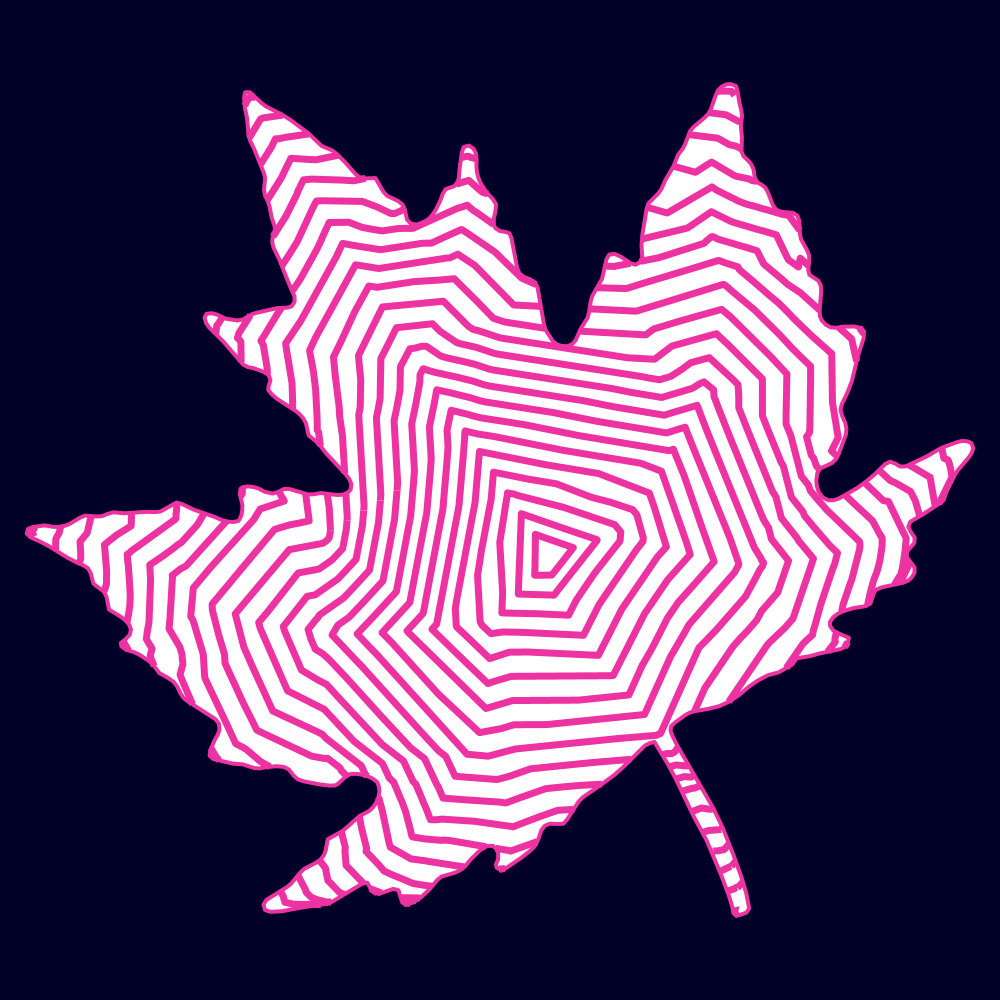
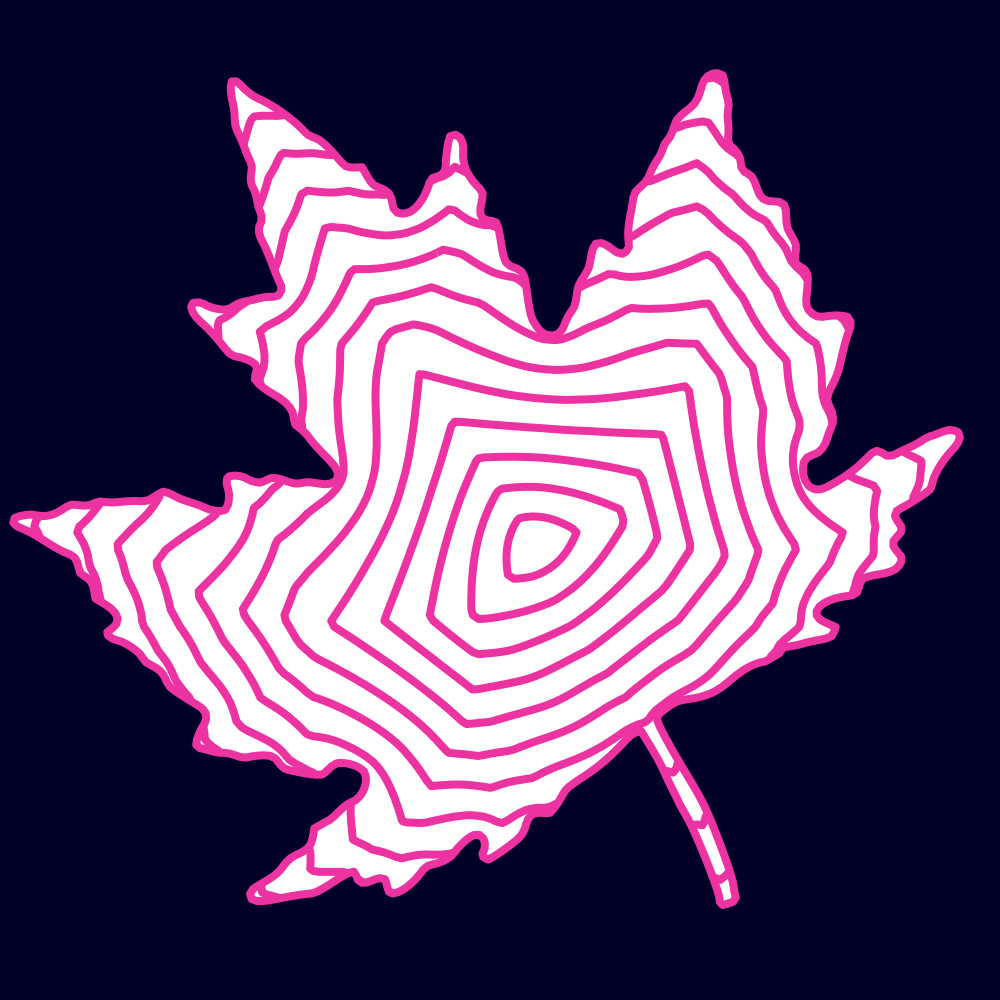
add isolinesFromFunction() (and improve distanceField())

Changed region(s): [[0.0, 0.062, 0.992, 0.93]]

diff --git a/src/main/java/micycle/pgs/PGS_Contour.java b/src/main/java/micycle/pgs/PGS_Contour.java
@@ -13,6 +13,7 @@ import java.util.List;
 import java.util.Map;
 import java.util.Objects;
 import java.util.Set;
+import java.util.function.DoubleBinaryOperator;
 import java.util.stream.Collectors;
 
 import javax.vecmath.Point3d;
@@ -37,6 +38,7 @@ import org.locationtech.jts.operation.buffer.BufferOp;
 import org.locationtech.jts.operation.buffer.BufferParameters;
 import org.locationtech.jts.operation.buffer.OffsetCurve;
 import org.locationtech.jts.operation.distance.IndexedFacetDistance;
+import org.locationtech.jts.operation.overlayng.OverlayNG;
 import org.locationtech.jts.simplify.DouglasPeuckerSimplifier;
 import org.tinfour.common.IIncrementalTin;
 import org.tinfour.common.IQuadEdge;
@@ -54,6 +56,7 @@ import org.twak.camp.Skeleton;
 import org.twak.utils.collections.Loop;
 import org.twak.utils.collections.LoopL;
 
+import com.github.micycle1.geoblitz.SegmentVoronoiIndex;
 import com.github.micycle1.geoblitz.YStripesPointInAreaLocator;
 import com.google.common.collect.Lists;
 
@@ -62,6 +65,7 @@ import micycle.medialAxis.MedialAxis.MedialDisk;
 import micycle.pgs.PGS.LinearRingIterator;
 import micycle.pgs.color.ColorUtils;
 import micycle.pgs.color.Colors;
+import micycle.pgs.commons.MarchingSquares;
 import micycle.pgs.commons.PEdge;
 import net.jafama.FastMath;
 import processing.core.PConstants;
@@ -589,42 +593,176 @@ public final class PGS_Contour {
 	}
 
 	/**
-	 * Generates vector contour lines representing a distance field derived from a
-	 * shape.
+	 * Extracts contour lines (isolines) from a user-defined 2D “height map” over a
+	 * rectangular region.
 	 * <p>
-	 * The distance field for a shape assigns each interior point a value equal to
-	 * the shortest Euclidean distance from that point to the shape boundary. This
-	 * method computes a series of contour lines (isolines), where each line
-	 * connects points with the same distance value, effectively visualizing the
-	 * "levels" of the distance field like elevation contours on a topographic map.
+	 * You provide a function {@code f(x,y)} that returns a numeric value for every
+	 * point. This method samples that function on a regular grid over
+	 * {@code bounds}, then traces contour lines that connect points with the same
+	 * value (like elevation contours on a map) using the Marching Squares
+	 * algorithm.
+	 * <p>
+	 * This is a very versatile way to turn simple math functions into computational
+	 * patterns—ripples, bands, interference fields, cellular textures, etc.—without
+	 * manually constructing geometry. The contour value range is determined
+	 * automatically from the sampled minimum/maximum values.
 	 *
-	 * @param shape   A polygonal shape for which to calculate the distance field
-	 *                contours.
-	 * @param spacing The interval between successive contour lines, i.e., the
-	 *                distance value difference between each contour.
-	 * @return A GROUP PShape. Each child of the group is a closed contour line or a
-	 *         section (partition) of a contour line, collectively forming the
-	 *         contour map.
+	 * @param bounds          Sampling bounds as {@code [xmin, ymin, xmax, ymax]}.
+	 * @param sampleSpacing   Grid spacing in coordinate units (smaller yields finer
+	 *                        detail but is slower). 5 is sufficient for very high
+	 *                        quality.
+	 * @param contourInterval The value step between successive contour lines.
+	 * @param valueFunction   Function that returns the value at {@code (x,y)}.
+	 * @return A map of isoline shapes to their corresponding contour (height)
+	 *         value.
+	 * @since 2.2
+	 */
+	public static PShape isolinesFromFunction(double[] bounds, double sampleSpacing, double contourInterval, DoubleBinaryOperator valueFunction) {
+		return isolinesFromFunction(bounds, sampleSpacing, contourInterval, valueFunction, Double.NaN, Double.NaN);
+	}
+
+	/**
+	 * Extracts contour lines (isolines) from a user-defined 2D “height map” over a
+	 * rectangular region, within a specified value range.
+	 * <p>
+	 * You provide a function {@code f(x,y)} that returns a numeric value for every
+	 * point. This method samples that function on a regular grid over
+	 * {@code bounds}, then traces contour lines that connect points with the same
+	 * value (like elevation contours on a map) using the Marching Squares
+	 * algorithm.
+	 * <p>
+	 * This is a very versatile way to turn simple math functions into computational
+	 * patterns. Only contour lines with values in {@code [isolineMin, isolineMax]}
+	 * are produced.
+	 *
+	 * @param bounds          Sampling bounds as {@code [xmin, ymin, xmax, ymax]}.
+	 * @param sampleSpacing   Grid spacing in coordinate units (smaller yields finer
+	 *                        detail but is slower). 5 is sufficient for very high
+	 *                        quality.
+	 * @param contourInterval The value step between successive contour lines.
+	 * @param valueFunction   Function that returns the value at {@code (x,y)}.
+	 * @param isolineMin      Minimum contour value (inclusive).
+	 * @param isolineMax      Maximum contour value (inclusive).
+	 * @return A map of isoline shapes to their corresponding contour (height)
+	 *         value.
+	 * @since 2.2
+	 */
+	public static PShape isolinesFromFunction(double[] bounds, double sampleSpacing, double contourInterval, DoubleBinaryOperator valueFunction,
+			double isolineMin, double isolineMax) {
+		var isolines = MarchingSquares.isolines(bounds, sampleSpacing, contourInterval, isolineMin, isolineMax, valueFunction).keySet();
+
+		var out = PGS_Conversion.flatten(isolines);
+		PGS_Conversion.setAllStrokeColor(out, micycle.pgs.color.Colors.PINK, 4, PConstants.SQUARE);
+
+		return out;
+	}
+
+	/**
+	 * Extracts the <em>zero</em> contour (the 0-level set) from a user-defined 2D
+	 * “height map” over a rectangular region.
+	 * <p>
+	 * You provide a function {@code f(x,y)} that returns a numeric value for every
+	 * point. This method samples that function on a regular grid over
+	 * {@code bounds}, then traces the isoline where {@code f(x,y) = 0} using the
+	 * Marching Squares algorithm.
+	 * <p>
+	 * The resulting contour follows the boundary between positive and negative
+	 * values of {@code f} (i.e., where the function crosses zero). This is useful
+	 * for extracting implicit curves such as circles, signed-distance fields, and
+	 * other zero-crossing patterns.
+	 *
+	 * @param bounds        Sampling bounds as {@code [xmin, ymin, xmax, ymax]}.
+	 * @param sampleSpacing Grid spacing in coordinate units (smaller yields finer
+	 *                      detail but is slower). 5 is sufficient for very high
+	 *                      quality.
+	 * @param valueFunction Function that returns the value at {@code (x,y)}.
+	 * @return A {@link PShape} containing all extracted zero-value isoline
+	 *         polylines within {@code bounds}.
+	 * @since 2.2
+	 */
+	public static PShape isolineZeroFromFunction(double[] bounds, double sampleSpacing, DoubleBinaryOperator valueFunction) {
+		var isolines = MarchingSquares.isolineZero(bounds, sampleSpacing, valueFunction).keySet();
+
+		var out = PGS_Conversion.flatten(isolines);
+		PGS_Conversion.setAllStrokeColor(out, micycle.pgs.color.Colors.PINK, 4, PConstants.SQUARE);
+
+		return out;
+	}
+
+	/**
+	 * Generates interior contour lines (isolines) that radiate from a shape
+	 * “center”.
+	 * <p>
+	 * The result resembles offset curves (inward parallels), but the underlying
+	 * metric is not a pure boundary offset. Instead, contours are derived from a
+	 * distance-like field that balances distance to the boundary with distance to
+	 * an interior pole (chosen automatically), producing characteristic
+	 * rings/levels emanating from the shape’s interior.
+	 *
+	 * @param shape   A polygonal {@link PShape} to generate contours for.
+	 * @param spacing The contour interval between successive lines.
+	 * @return A {@code GROUP} {@link PShape} whose children form the contour set
+	 *         inside {@code shape}.
 	 * @since 1.3.0
+	 * @see #distanceField(PShape, double, PVector)
 	 */
 	public static PShape distanceField(PShape shape, double spacing) {
-		Geometry g = fromPShape(shape);
-		MedialAxis m = new MedialAxis(g);
+		PVector mic = new PVector();
+		PGS_Optimisation.maximumInscribedCircle(shape, 1, mic);
+		return distanceField(shape, spacing, mic);
+	}
 
-		List<PVector> disks = new ArrayList<>();
-		double min = Double.POSITIVE_INFINITY;
-		double max = Double.NEGATIVE_INFINITY;
-		for (MedialDisk d : m.getDisks()) {
-			disks.add(new PVector((float) d.position.x, (float) d.position.y, (float) d.distance));
-			min = Math.min(d.distance, min);
-			max = Math.max(d.distance, max);
-		}
+	/**
+	 * Generates interior contour lines (isolines) that radiate from a specified
+	 * pole point within a polygon.
+	 * <p>
+	 * The result is similar in spirit to inward offset curves, but governed by a
+	 * distance-like field that blends proximity to the boundary with proximity to
+	 * the given {@code pole}. This tends to produce characteristic “rings”/levels
+	 * centred on {@code pole}, clipped to the shape interior.
+	 *
+	 * @param shape   A polygonal {@link PShape} to generate contours for.
+	 * @param spacing The contour interval between successive lines.
+	 * @param pole    The point that the contours are oriented around (need not lie
+	 *                inside {@code shape}).
+	 * @return A {@code GROUP} {@link PShape} whose children form the contour set
+	 *         inside {@code shape}.
+	 * @since 2.2
+	 */
+	public static PShape distanceField(PShape shape, double spacing, PVector pole) {
+		final Geometry g = fromPShape(shape);
+		final var svi = new SegmentVoronoiIndex((Polygon) g, Math.max(spacing / 5.0, 4));
 
-		PShape out = PGS_Conversion.flatten(PGS_Contour.isolines(disks, spacing, min, max, 1).keySet());
-		PShape i = PGS_ShapeBoolean.intersect(shape, out);
-		PGS_Conversion.disableAllFill(i); // since some shapes may be polygons
-		PGS_Conversion.setAllStrokeColor(i, micycle.pgs.color.Colors.PINK, 4, PConstants.SQUARE);
-		return i;
+		DoubleBinaryOperator fn = (x, y) -> {
+			Coordinate c = new Coordinate(x, y);
+			double dGeo = svi.distanceToNearestSegment(c);
+			double dPoint = Math.sqrt((x - pole.x) * (x - pole.x) + (y - pole.y) * (y - pole.y));
+			return dGeo - dPoint; // no abs() as abs produces cusp where dGeo==dPoint
+		};
+
+		var env = g.getEnvelopeInternal();
+		env.expandBy(1);
+		double[] bounds = { env.getMinX(), env.getMinY(), env.getMaxX(), env.getMaxY() };
+
+		double sampleSpacing = Math.max(spacing / 10.0, 4); // heuristic
+		var contourMap = isolinesFromFunction(bounds, sampleSpacing, spacing, fn);
+
+		/*
+		 * Experienced 'Overlay input is mixed-dimension' issue when intersecting
+		 * geometry collection of isolines with g - so force to MultiLineString.
+		 */
+
+		var contours = PGS_Conversion.getChildren(contourMap).stream().map(c -> {
+			var cg = fromPShape(c);
+			return cg.getGeometryType().equals(Geometry.TYPENAME_POLYGON) ? cg.getBoundary() : cg;
+		}).toArray(LineString[]::new);
+
+		var contourStrings = PGS.GEOM_FACTORY.createMultiLineString(contours);
+		var out = toPShape(OverlayNG.overlay(contourStrings, g, OverlayNG.INTERSECTION));
+
+		PGS_Conversion.setAllStrokeColor(out, micycle.pgs.color.Colors.PINK, 4, PConstants.SQUARE);
+
+		return out;
 	}
 
 	/**
@@ -939,7 +1077,7 @@ public final class PGS_Contour {
 		}
 
 		final BufferParameters bufParams = new BufferParameters(8, BufferParameters.CAP_FLAT, style.style, BufferParameters.DEFAULT_MITRE_LIMIT);
-//		bufParams.setSimplifyFactor(5); // can produce "poor" yet interesting results
+		// bufParams.setSimplifyFactor(5); // can produce "poor" yet interesting results
 
 		spacing = Math.max(1, Math.abs(spacing)); // ensure positive and >=1
 		spacing = outwards ? spacing : -spacing;
@@ -1013,8 +1151,8 @@ public final class PGS_Contour {
 	 * @param spacingY
 	 * @return
 	 */
-	private static ArrayList<PVector> generateGrid(double minX, double minY, double maxX, double maxY, double spacingX, double spacingY) {
-		ArrayList<PVector> grid = new ArrayList<>();
+	private static List<PVector> generateGrid(double minX, double minY, double maxX, double maxY, double spacingX, double spacingY) {
+		List<PVector> grid = new ArrayList<>();
 		double[] y = generateDoubleSequence(minY, maxY, spacingY);
 		double[] x = generateDoubleSequence(minX, maxX, spacingX);
 

diff --git a/src/main/java/micycle/pgs/commons/MarchingSquares.java b/src/main/java/micycle/pgs/commons/MarchingSquares.java
@@ -162,7 +162,7 @@ public final class MarchingSquares {
 	 * @param fn            (x,y) -> value whose zero-set is traced
 	 * @return map of PShape -> level (always 0f)
 	 */
-	public static Map<PShape, Float> isolineZero(double[] bounds, double sampleSpacing, int smoothing, DoubleBinaryOperator fn) {
+	public static Map<PShape, Float> isolineZero(double[] bounds, double sampleSpacing, DoubleBinaryOperator fn) {
 
 		if (sampleSpacing <= 0) {
 			throw new IllegalArgumentException("sampleSpacing must be > 0");

diff --git a/CHANGELOG.md b/CHANGELOG.md
@@ -30,8 +30,9 @@ and this project adheres to [Semantic Versioning](https://semver.org/spec/v2.0.0
 * `squareGrid()` to `PGS_Tiling`. Divides the plane into a simple axis-aligned grid using square cells.
 * `aztecDiamond()` to `PGS_Tiling`. Produces a random domino tiling of the Aztec diamond of a given order.
 * `perpendicularPathSegments()` to `PGS_SegmentSet`. Extracts perpendicular segments along each linear component of shape, with each segment centered on the path/outline.
-* `dilationMorph()` to `PGS_Morphology`. Interpolates between two shapes using a Hausdorff-distance based method.
-* `voronoiMorph()` to `PGS_Morphology`. Interpolates between two shapes using a Voronoi-based morph.
+* `dilationMorph()` to `PGS_Morphology`. Morphs between two shapes using a Hausdorff-distance based method.
+* `voronoiMorph()` to `PGS_Morphology`. Morphs between two shapes using a Voronoi-based method.
+* `isolinesFromFunction()` to `PGS_Contour`. Extracts contour lines (isolines) from a user-defined 2D “height map” over a rectangular region.
 
 ### Changes
 * These methods in `PGS_Meshing` are more performant and robust: `urquhartFaces()`, `gabrielFaces()`, `spannerFaces()`, `relativeNeighborFaces()`, `edgeCollapseQuadrangulation()`, `centroidQuadrangulation()`.
@@ -43,6 +44,7 @@ and this project adheres to [Semantic Versioning](https://semver.org/spec/v2.0.0
 * `PGS_Conversion.toWKT()` now writes coordinates in float precison by default (previously 2 decimal places).
 * Reimplemented `PGS_Morphology.interpolate()` using a more advanced approach with better quality (though interpolations can still self-intersect).
 * Renamed `shapeIntersection(a, b)` in `PGS_Processing` to `intersectionPoints()`.
+* Reimplemented `PGS_Morphology.distanceField()` with a better quality approach, and added an additional method signature that accepts a 'pole' parameter to compute the distance field with respect to a specific point.
 
 ### Fixed
 * `PGS_Optimisation.closestPoint()` now returns the nearest location on the shape's **boundary** for queries inside a polygonal shape (previously returned the query point itself).

diff --git a/README.md b/README.md
@@ -248,6 +248,13 @@ Much of the functionality (but by no means all) is demonstrated below:
     <tr>
     <td align="center" valign="center">A contour map based on a distance field of a shape</td>
   </tr>
+    <tr>
+    <td align="center" valign="center" colspan="2"><b>Isolines from function</td>
+  </tr>
+  <tr>
+    <td valign="top"><img src="resources/contour/isolinesFromFunction1.gif"></td>
+    <td valign="top"><img src="resources/contour/isolinesFromFunction2.gif"></td>
+  </tr>
 </table>
 
 ## *Morphology*
